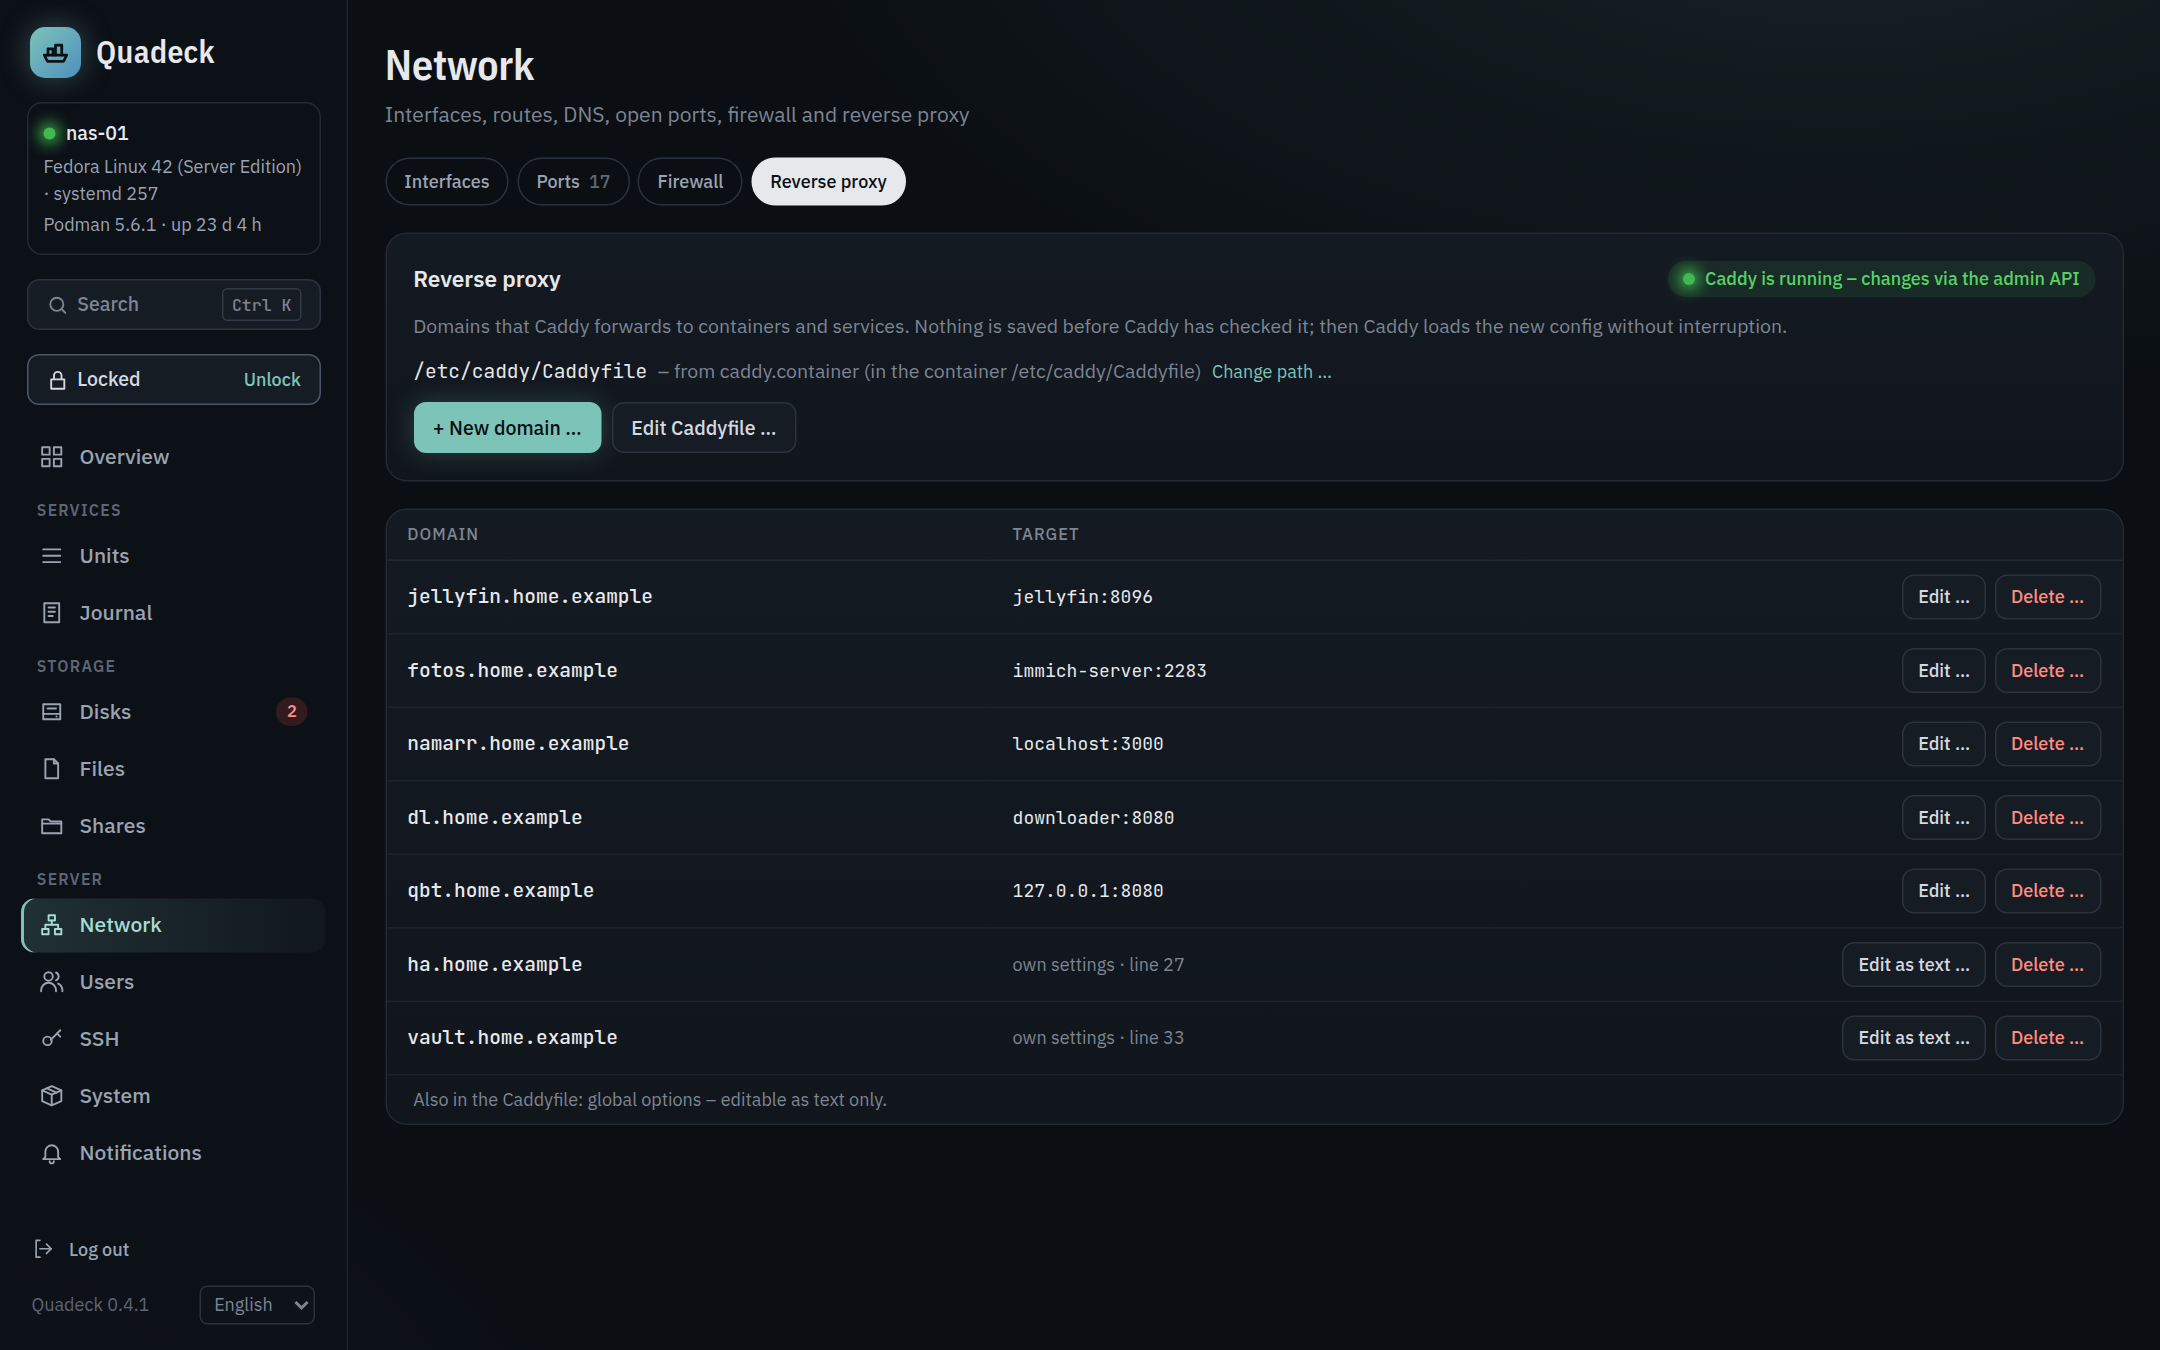
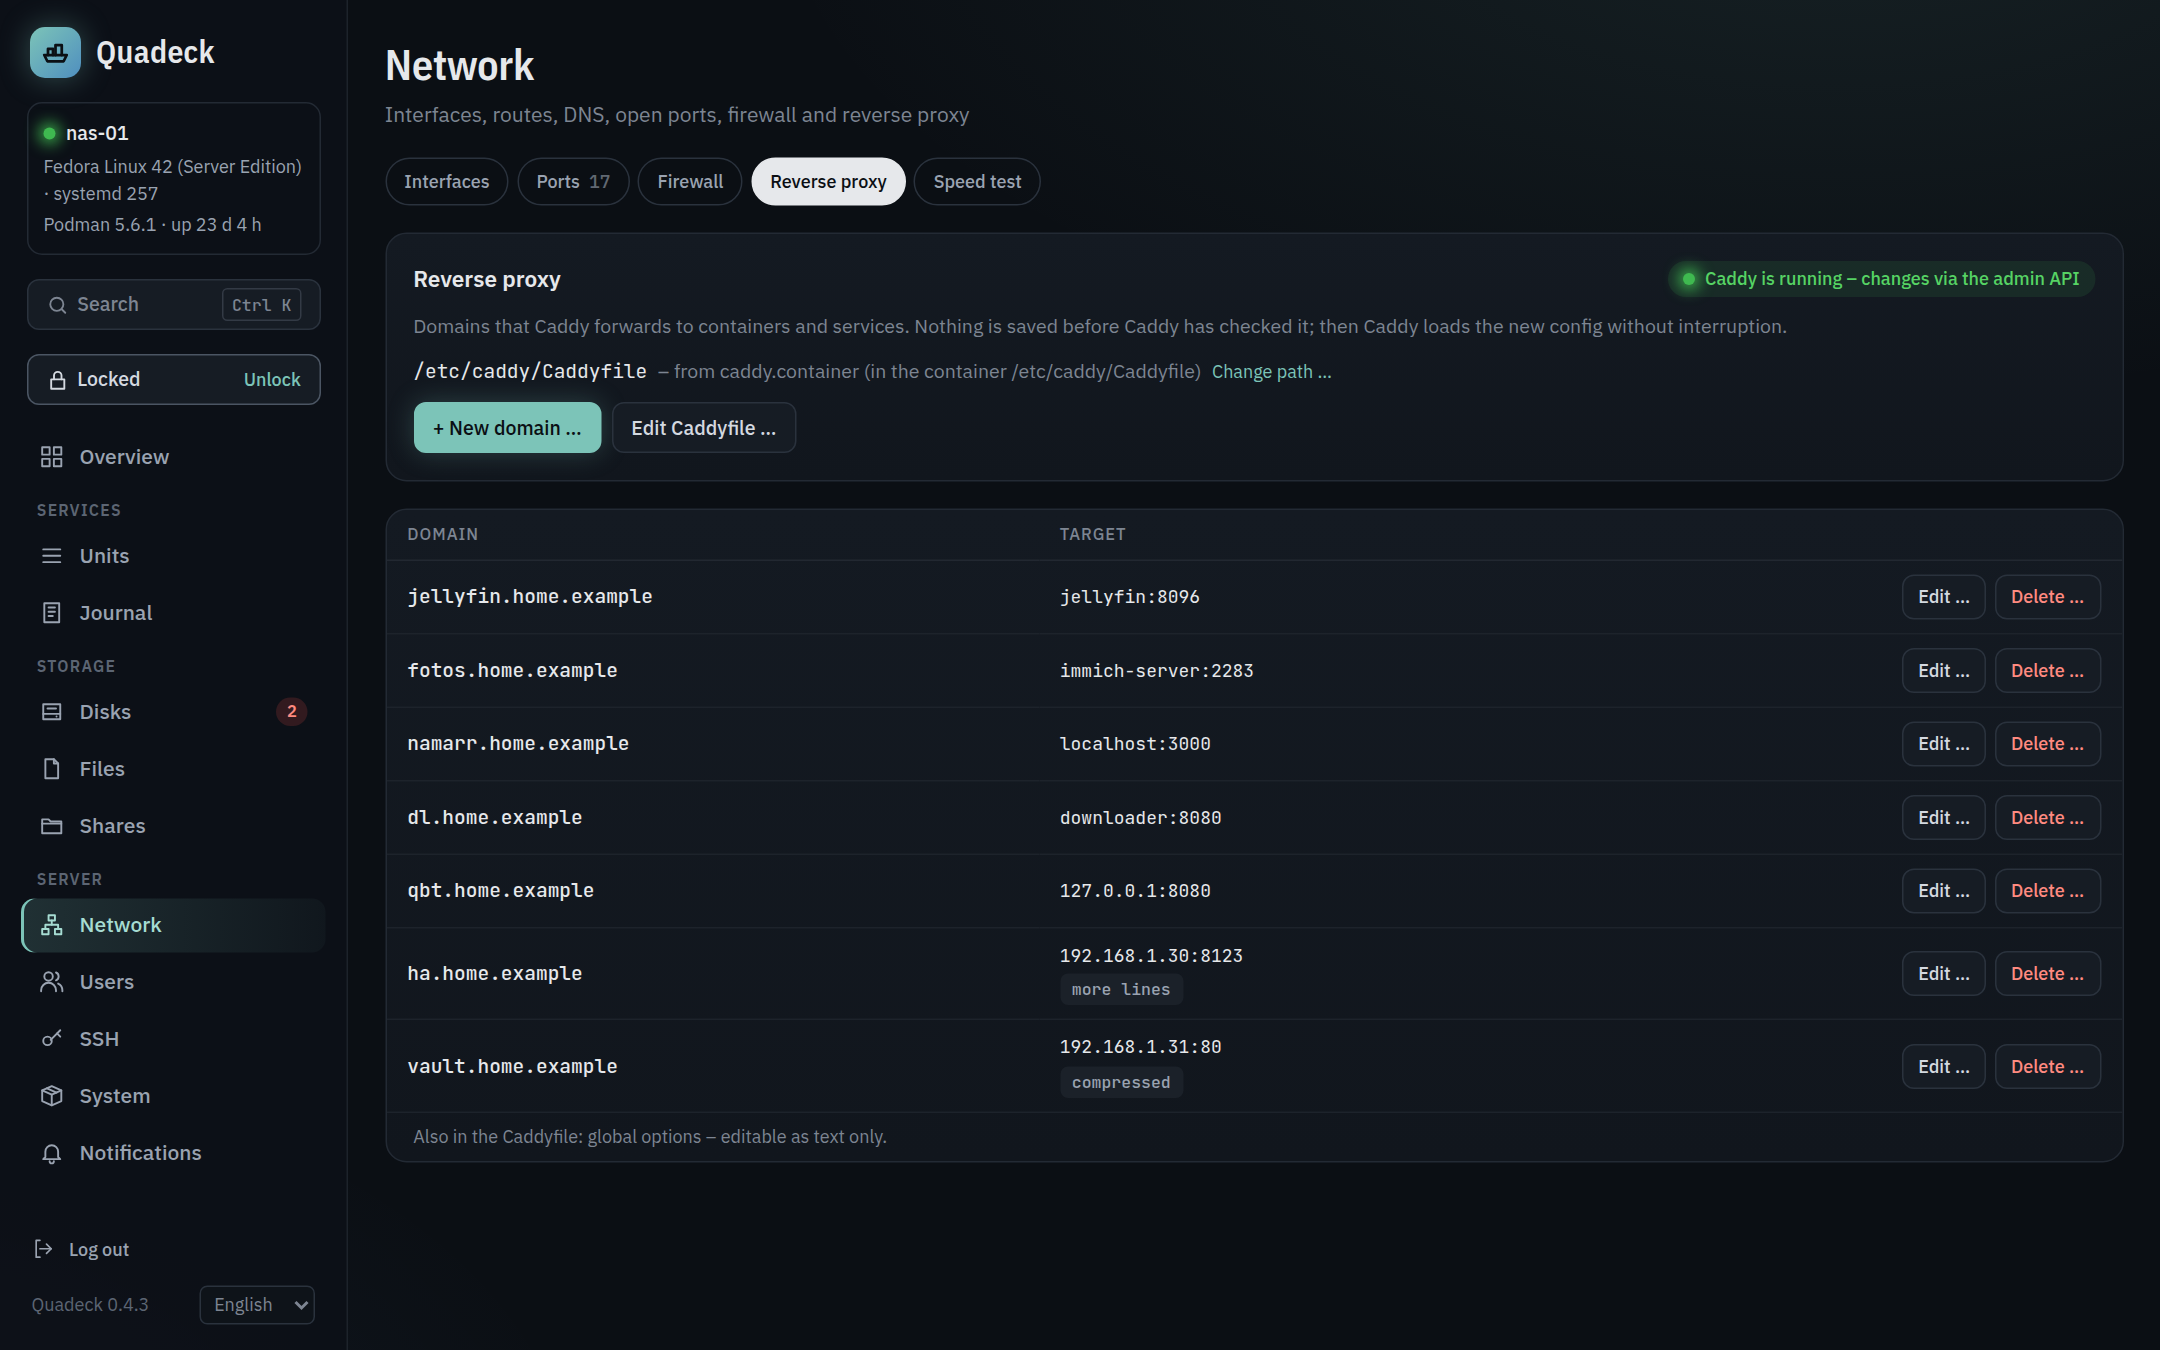
README: images open as images, Why Quadeck as a server console, speed test
Claude-Session: https://claude.ai/code/session_01Vrgb7cjpgCXq9Tjg2bnuPN

diff --git a/README.md b/README.md
@@ -2,8 +2,8 @@
 
 <img src="docs/banner.png" alt="Quadeck: the dashboard for a Podman home server" width="900">
 
-**The dashboard for a Podman home server.**<br>
-See and run your containers, Quadlets, systemd, disks, shares and updates in one place.<br>
+**Dashboard and server console for a Podman home server.**<br>
+Containers, Quadlets, systemd, updates, disks, shares, users, network and reverse proxy in one place.<br>
 One binary on the host. No container, no socket mounts, nothing to configure.
 
 [![CI](https://github.com/firsttris/quadeck/actions/workflows/ci.yml/badge.svg)](https://github.com/firsttris/quadeck/actions/workflows/ci.yml)
@@ -28,13 +28,18 @@ curl -fsSL https://raw.githubusercontent.com/firsttris/quadeck/main/install.sh |
 
 ## 💡 Why Quadeck?
 
-Cockpit is a full server console, Portainer wants Docker, and most homelab dashboards are link
-pages that know nothing about the machine behind them. A Podman server with Quadlets already has
-what it needs: systemd runs the containers, Caddy publishes them, the package manager updates the
-host. Quadeck puts all of it in one place where you can also act on it.
+Cockpit is a general-purpose server console, Portainer is about containers and wants Docker, and
+most homelab dashboards are link pages that know nothing about the machine behind them. Quadeck is
+the console for a home server that runs its apps with Podman: what you would otherwise do in
+Cockpit, at the shell or in a dozen config files – units and timers, updates and kernels, disks and
+`fstab`, users and SSH, Samba and NFS, network and Caddy – plus what a homelab needs on top: a
+dashboard of your services, SMART advice in plain words, notifications and a speed test.
 
 - **Zero config**: install, open the page, and the dashboard is already filled. Services, URLs and
   icons come from Caddy, Podman and your Quadlet files.
+- **Changes you can trust**: every change is checked by the tool that owns the file before it is
+  written (the Quadlet generator, `systemd-analyze`, `findmnt`, `testparm`, `sshd -t`, Caddy), shown
+  as a diff first and kept in a history.
 - **systemd stays in charge**: a container with a Quadlet unit is always started and stopped
   through systemd, never behind its back.
 - **Root in a separate process**: the web app runs unprivileged. A small root helper with a fixed
@@ -68,11 +73,12 @@ a reverse proxy and uninstalling are in the [installation guide](docs/installati
 | 📦 **Containers & Quadlets** | Units with status and journal, a Quadlet editor (form or text) checked by the real generator, templates, docker-compose import |
 | ⚙ **systemd & timers** | Edit any unit through overrides, verified before saving; timers with a schedule builder as the cron replacement |
 | ⬆ **Updates** | pacman (with AUR), apt, dnf, zypper, apk, rpm-ostree and container images as live jobs; reboot hints and Arch news |
-| 🥾 **Boot** | Reboot, boot once into another entry, edit systemd-boot entries safely (copy, test once, then make it the default), second kernel on Arch |
-| 💽 **Disks** | SMART health with plain advice and a year of history, an fstab editor that checks every change, a small file explorer |
-| 🌐 **Network & reverse proxy** | Interfaces, ports with the container behind them, firewall; Caddy domains added and changed from a list |
+| 🥾 **Boot** | Reboot, boot once into another entry, edit systemd-boot entries in a form with every kernel parameter explained (copy, test once, then make it the default), second kernel on Arch |
+| 💽 **Disks & files** | SMART health with plain advice and a year of history, an fstab editor that checks every change; a file explorer that edits text files and opens photos, PDFs and videos in the browser |
+| 🌐 **Network & reverse proxy** | Interfaces, ports with the container behind them, firewall; Caddy domains in a dialog (home network only, password, compression …) |
+| 🚀 **Speed test** | This device ↔ server and server ↔ internet (Cloudflare) with a live gauge in Mbit/s and MB/s; optional daily runs with a graph and an alert when the line gets slow |
 | 🔐 **Users, shares & SSH** | Accounts and groups, SMB and NFS shares, SSH keys and hardening with a lock-out guard |
-| 🔔 **Notifications** | ntfy, Gotify, Telegram, e-mail or webhook when something fails, a disk fills up or updates are waiting |
+| 🔔 **Notifications** | ntfy, Gotify, Telegram, e-mail or webhook when something fails, a disk fills up, the internet is slow or updates are waiting |
 
 Plus: hardware details (memory slots, GPU passthrough lines, stable USB paths), a command palette
 (<kbd>Ctrl</kbd>+<kbd>K</kbd>), English and German, a read-only mode and an unlock that expires after
@@ -82,16 +88,19 @@ Plus: hardware details (memory slots, GPU passthrough lines, stable USB paths), 
 
 <table>
   <tr>
-    <td width="50%"><a href="docs/quadlets.md"><img src="docs/screenshot-quadlets.png" alt="Quadlet editor: jellyfin.container as a form with image, ports, volumes and environment"></a><br><sub><b>Quadlet editor</b> – form and text on the same file</sub></td>
-    <td width="50%"><a href="docs/updates.md"><img src="docs/screenshot-system.png" alt="Updates: Arch news, pacman and AUR updates with a reboot hint, container images"></a><br><sub><b>Updates</b> – packages, AUR and container images</sub></td>
+    <td width="50%"><img src="docs/screenshot-quadlets.png" alt="Quadlet editor: jellyfin.container as a form with image, ports, volumes and environment"><br><sub><b>Quadlet editor</b> – form and text on the same file · <a href="docs/quadlets.md">docs →</a></sub></td>
+    <td width="50%"><img src="docs/screenshot-system.png" alt="Updates: Arch news, pacman and AUR updates with a reboot hint, container images"><br><sub><b>Updates</b> – packages, AUR and container images · <a href="docs/updates.md">docs →</a></sub></td>
   </tr>
   <tr>
-    <td><a href="docs/updates.md"><img src="docs/screenshot-boot.png" alt="Boot and reboot: systemd-boot entries, boot loader, kernels"></a><br><sub><b>Boot</b> – entries, one-time boot, kernels</sub></td>
-    <td><a href="docs/network.md"><img src="docs/screenshot-proxy.png" alt="Reverse proxy: Caddy domains and their targets"></a><br><sub><b>Reverse proxy</b> – Caddy domains as a list</sub></td>
+    <td><img src="docs/screenshot-boot.png" alt="Boot and reboot: systemd-boot entries, boot loader, kernels"><br><sub><b>Boot</b> – entries, one-time boot, kernels · <a href="docs/updates.md">docs →</a></sub></td>
+    <td><img src="docs/screenshot-proxy.png" alt="Reverse proxy: Caddy domains and their targets"><br><sub><b>Reverse proxy</b> – Caddy domains with their options · <a href="docs/network.md">docs →</a></sub></td>
   </tr>
   <tr>
-    <td><a href="docs/disks.md"><img src="docs/screenshot-disks.png" alt="Disks: SMART verdict and advice per disk"></a><br><sub><b>Disks</b> – SMART with advice</sub></td>
-    <td><a href="docs/systemd.md"><img src="docs/screenshot-timers.png" alt="Timers: schedule, next and last run, result and command"></a><br><sub><b>Timers</b> – the cron replacement</sub></td>
+    <td><img src="docs/screenshot-disks.png" alt="Disks: SMART verdict and advice per disk"><br><sub><b>Disks</b> – SMART with advice · <a href="docs/disks.md">docs →</a></sub></td>
+    <td><img src="docs/screenshot-timers.png" alt="Timers: schedule, next and last run, result and command"><br><sub><b>Timers</b> – the cron replacement · <a href="docs/systemd.md">docs →</a></sub></td>
+  </tr>
+  <tr>
+    <td colspan="2"><img src="docs/screenshot-speedtest.png" alt="Speed test: gauges for this device and the internet, results in Mbit/s and MB/s, the graph over 30 days, automatic runs"><br><sub><b>Speed test</b> – live gauge, both units, graph over time · <a href="docs/network.md#speed-test">docs →</a></sub></td>
   </tr>
 </table>
 
